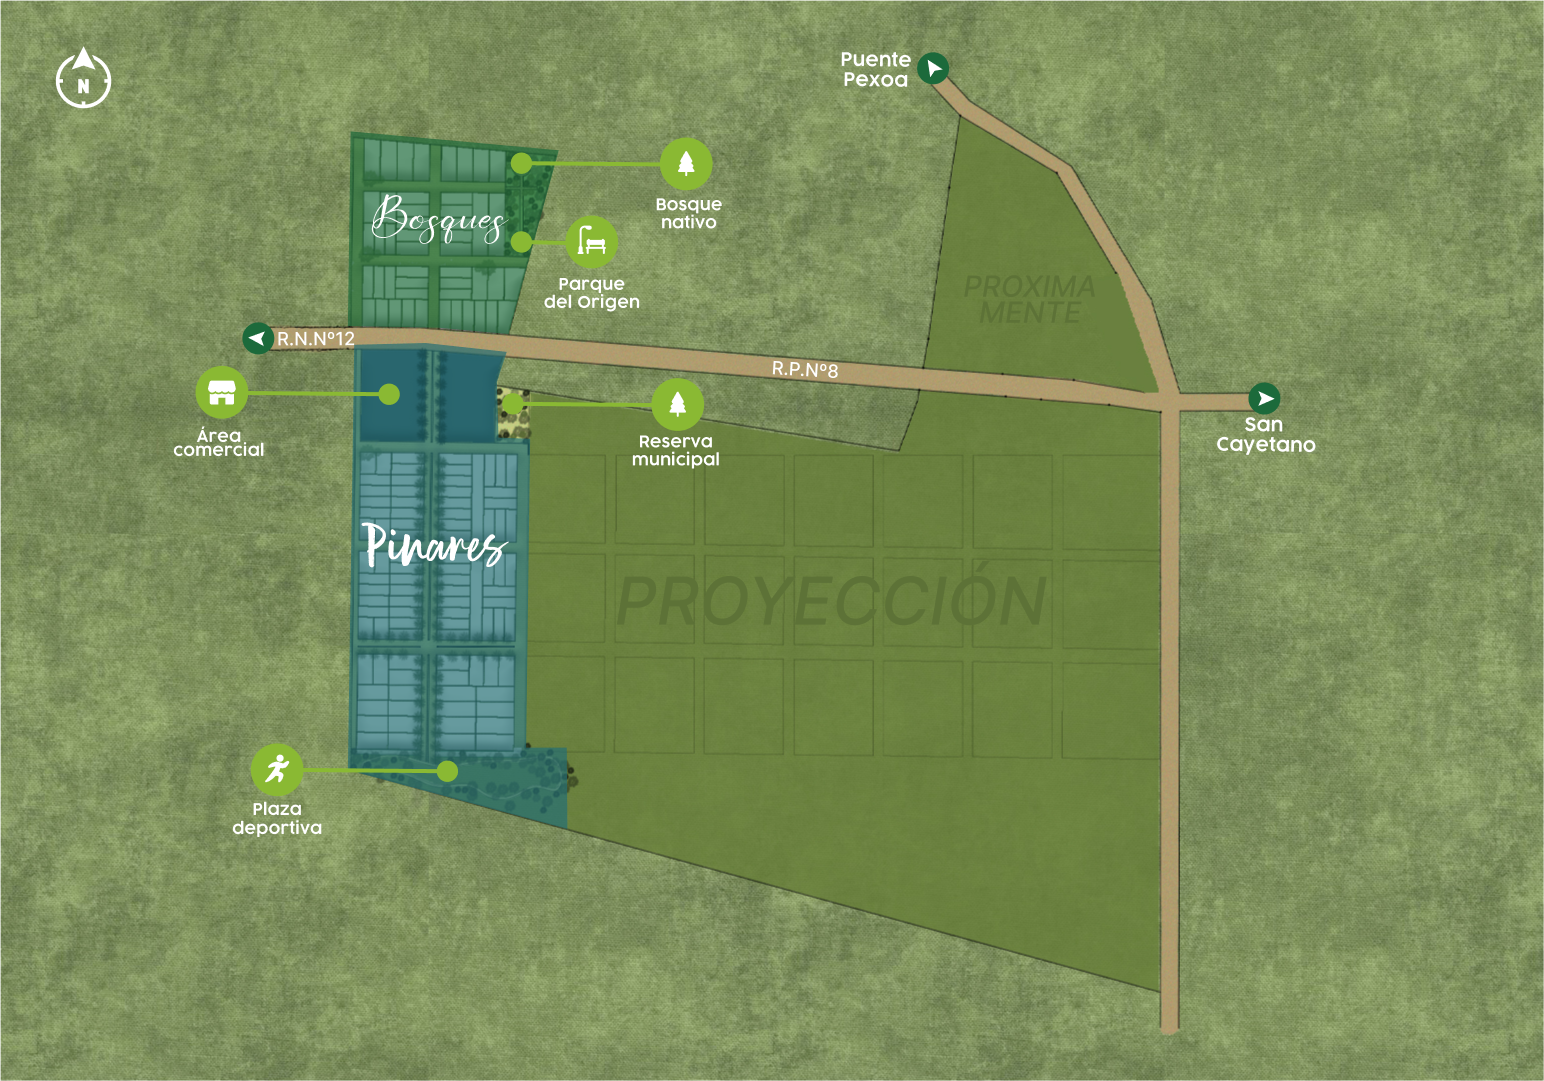
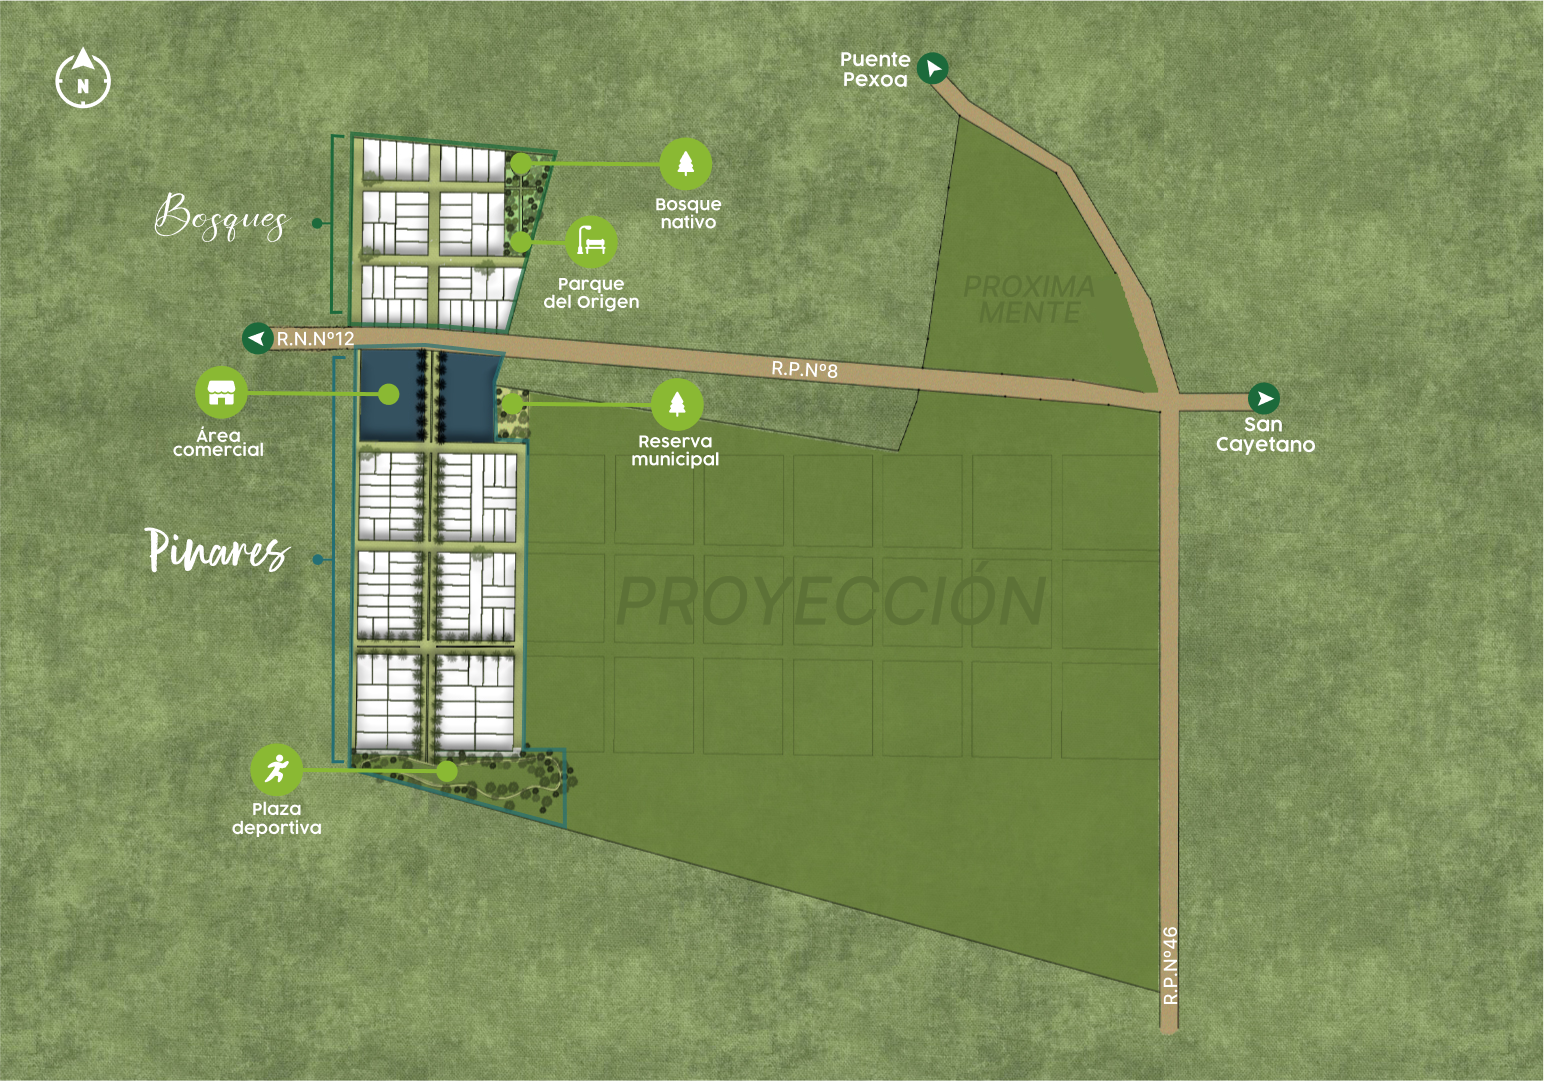
mapas

diff --git a/src/components/mapas/doneulogiocompleto.js b/src/components/mapas/doneulogiocompleto.js
@@ -20,6 +20,7 @@ const Arg = () => {
   const [open, setOpen] = useState(false);
   const [lotes, setLotes] = useState();
   const [seleccion, setSeleccion] = useState();
+  const [posicion0, setPosicion0] = useState(true);
   const [imagenDeFondoActivada, setImagenDeFondoActivada] = useState(true);
   const [selectedImage, setSelectedImage] = useState(Gps); // Estado para la imagen seleccionada
 
@@ -48,9 +49,14 @@ const Arg = () => {
   const handleImageChange = (e) => {
     setSelectedImage(e.target.value); // Actualiza la imagen seleccionada
   };
-  const handleMouseEnter = (e) => {
-    e.target.style.fillOpacity = 1;
-};
+  const cambiarsvg = (e) => {
+    if(e===1){
+      setPosicion0(false)
+     // setTransform(0, 0, 2)
+    }else{
+      setPosicion0(false)
+    }
+  };
 
 const handleMouseLeave = (e) => {
     e.target.style.fillOpacity = 0.00001;
@@ -135,16 +141,67 @@ const handleMouseLeave = (e) => {
       }}
     />
   )}  {  selectedImage && <>
-<div style={{ position: 'relative', zIndex: 1, width: '150%', height: '150%' }}>                    
-      <svg xmlns="http://www.w3.org/2000/svg" width="250mm" height="250mm" viewBox="-265 830 9874 9874"  baseProfile="tiny" version="1.2">
-                          <defs />
- <g transform="scale(1.06,1.05)" stroke-width="1" fill-rule="evenodd" stroke-linecap="square" fill="none" stroke-linejoin="bevel" stroke="black">
-  <g transform="scale(1.06,1.05)" stroke-width="1"  font-family="MS Shell Dlg 2" stroke-opacity="1" stroke-linecap="square" font-style="normal" font-size="108.333" fill="none" stroke-linejoin="bevel" font-weight="400" stroke="#000000"/>
-  <g transform="scale(1.06,1.05)" stroke-width="1"  font-family="MS Shell Dlg 2" stroke-opacity="1" stroke-linecap="square" font-style="normal" font-size="108.333" fill="none" stroke-linejoin="bevel" font-weight="400" stroke="#000000"/>
-  <g transform="scale(1.06,1.05)" stroke-width="1"  font-family="MS Shell Dlg 2" stroke-opacity="1" stroke-linecap="square" font-style="normal" font-size="108.333" fill="none" stroke-linejoin="bevel" font-weight="400" stroke="#000000"/>
-  <g transform="scale(1.06,1.05)" stroke-width="1"  font-family="MS Shell Dlg 2" stroke-opacity="1" stroke-linecap="square" font-style="normal" font-size="108.333" fill="none" stroke-linejoin="bevel" font-weight="400" stroke="#000000"/>
-  <g fill-opacity="1"  font-family="MS Shell Dlg 2" font-style="normal" font-size="108.333" fill="#ffffff" font-weight="400" stroke="none">
+ 
 
+{posicion0 ? <div>
+  <div style={{ position: 'relative', zIndex: 1, width: '145%', height: '120%' }}>   
+  <svg viewBox="1200 640 3507 2480" version="1.2" width="250mm"  height="250mm"  xmlns="http://www.w3.org/2000/svg" >
+ <defs/>
+ <g stroke="black" stroke-width="1" fill-rule="evenodd" stroke-linejoin="bevel" stroke-linecap="square" fill="none">
+  <g font-style="normal"  transform="scale(0.7,0.7)"  stroke="#000000" stroke-width="1" stroke-linejoin="bevel" fill='none' font-size="32.5" stroke-linecap="square" stroke-opacity="1" font-family="MS Shell Dlg 2" font-weight="400" />
+  <g font-style="normal"  transform="scale(0.7,0.7)"  stroke="#000000" stroke-width="1" stroke-linejoin="bevel" fill='none' font-size="32.5" stroke-linecap="square" stroke-opacity="1" font-family="MS Shell Dlg 2" font-weight="400" />
+  <g font-style="normal"  transform="scale(0.7,0.7)"  stroke="#000000" stroke-width="1" stroke-linejoin="bevel" fill='none' font-size="32.5" stroke-linecap="square" stroke-opacity="1" font-family="MS Shell Dlg 2" font-weight="400" />
+  <g font-style="normal"  transform="scale(0.7,0.7)"  stroke="#000000" stroke-width="1" stroke-linejoin="bevel" fill='none' font-size="32.5" stroke-linecap="square" stroke-opacity="1" font-family="MS Shell Dlg 2" font-weight="400" />
+  <g font-style="normal" stroke="none" fill-opacity="1" font-size="32.5" font-family="MS Shell Dlg 2" font-weight="400" fill="#ffffff">
+   <path vector-effect="none" d="M-2,-2 L3510,-2 L3510,2483 L-2,2483 L-2,-2" fill="none" fill-rule="evenodd"/>
+  </g>
+  <g font-style="normal"  transform="scale(0.7,0.7)"  stroke="#000000" stroke-width="1" stroke-linejoin="bevel" fill='none' font-size="32.5" stroke-linecap="square" stroke-opacity="1" font-family="MS Shell Dlg 2" font-weight="400" />
+  <g font-style="normal"  transform="scale(0.7,0.7)"  stroke="#000000" stroke-width="1" stroke-linejoin="bevel" fill='none' font-size="32.5" stroke-linecap="square" stroke-opacity="1" font-family="MS Shell Dlg 2" font-weight="400" />
+  <g font-style="normal"  transform="scale(0.7,0.7)"  stroke="#000000" stroke-width="1" stroke-linejoin="bevel" fill='none' font-size="32.5" stroke-linecap="square" stroke-opacity="1" font-family="MS Shell Dlg 2" font-weight="400" />
+  <g font-style="normal"  transform="scale(0.7,0.7)"  stroke="#000000" stroke-width="1" stroke-linejoin="bevel" fill='none' font-size="32.5" stroke-linecap="square" stroke-opacity="1" font-family="MS Shell Dlg 2" font-weight="400" />
+  <g font-style="normal"  transform="scale(0.7,0.7)"  stroke="#000000" stroke-width="1" stroke-linejoin="bevel" fill='none' font-size="32.5" stroke-linecap="square" stroke-opacity="1" font-family="MS Shell Dlg 2" font-weight="400" />
+  <g font-style="normal"  transform="scale(0.7,0.7)"  stroke="#000000" stroke-width="1" stroke-linejoin="bevel" fill='none' font-size="32.5" stroke-linecap="square" stroke-opacity="1" font-family="MS Shell Dlg 2" font-weight="400" />
+  <g font-style="normal" stroke="none" fill-opacity="1" font-size="32.5" font-family="MS Shell Dlg 2" font-weight="400" fill="#ffffff">
+   <path vector-effect="none" fillOpacity={0.0001} fill='none'  d="M0,0 L297,0 L297,210 L0,210 L0,0" fill-rule="evenodd"/>
+  </g>
+  <g font-style="normal"  transform="scale(0.7,0.7)"  stroke="#000000" stroke-width="1" stroke-linejoin="bevel" fill='none' font-size="32.5" stroke-linecap="square" stroke-opacity="1" font-family="MS Shell Dlg 2" font-weight="400" />
+  <g font-style="normal"  transform="scale(0.7,0.7)"  stroke="#000000" stroke-width="1" stroke-linejoin="bevel" fill='none' font-size="32.5" stroke-linecap="square" stroke-opacity="1" font-family="MS Shell Dlg 2" font-weight="400" />
+  <g font-style="normal" stroke="none" fill-opacity="0" font-size="32.5" font-family="MS Shell Dlg 2" font-weight="400" fill="#000000">
+  
+  </g>
+  <g font-style="normal"  transform="scale(0.7,0.7)"  stroke="#000000" stroke-width="1" stroke-linejoin="bevel" fill='none' font-size="32.5" stroke-linecap="square" stroke-opacity="1" font-family="MS Shell Dlg 2" font-weight="400" />
+  <g font-style="normal" stroke="#232323" stroke-width="3.07087" fill-opacity="0.652995" stroke-linejoin="bevel" font-size="32.5" stroke-linecap="square" stroke-opacity="0.652995" font-family="MS Shell Dlg 2" font-weight="400" fill="#1c6a3b">
+   <path vector-effect="none"  transform="scale(1.1,0.97)"onClick={ () => cambiarsvg(1)}   d="M1037.69,899.526 L1222.96,904.069 L1248.21,904.574 L1413.29,919.214 L1526.75,485.432 L1042.61,443.909 L1037.69,899.526" fill-rule="evenodd"/>
+  </g>
+  <g font-style="normal"  transform="scale(0.7,0.7)"  stroke="#000000" stroke-width="1" stroke-linejoin="bevel" fill='none' font-size="32.5" stroke-linecap="square" stroke-opacity="1" font-family="MS Shell Dlg 2" font-weight="400" />
+  <g font-style="normal" stroke="#232323" stroke-width="3.07087" fill-opacity="0.484993" stroke-linejoin="bevel" font-size="32.5" stroke-linecap="square" stroke-opacity="0.484993" font-family="MS Shell Dlg 2" font-weight="400" fill="#246f74">
+   <path  transform="scale(1.1,0.97)" vector-effect="none" d="M1053.65,948.684 L1216.72,946.16 L1403,963.325 L1377.76,1023.4 L1379.78,1171.82 L1459.04,1172.33 L1449.7,1899.55 L1545.37,1899.04 L1548.4,2082.05 L1038,1943.85 L1053.65,948.684" fill-rule="evenodd"/>
+  </g>
+  <g font-style="normal"  transform="scale(0.7,0.7)"  stroke="#000000" stroke-width="1" stroke-linejoin="bevel" fill='none' font-size="32.5" stroke-linecap="square" stroke-opacity="1" font-family="MS Shell Dlg 2" font-weight="400" />
+  <g font-style="normal"  transform="scale(0.7,0.7)"  stroke="#000000" stroke-width="1" stroke-linejoin="bevel" fill='none' font-size="32.5" stroke-linecap="square" stroke-opacity="1" font-family="MS Shell Dlg 2" font-weight="400" />
+  <g font-style="normal"  transform="scale(0.7,0.7)"  stroke="#000000" stroke-width="1" stroke-linejoin="bevel" fill='none' font-size="32.5" stroke-linecap="square" stroke-opacity="1" font-family="MS Shell Dlg 2" font-weight="400" />
+  <g font-style="normal"  transform="scale(0.7,0.7)"  stroke="#000000" stroke-width="1" stroke-linejoin="bevel" fill='none' font-size="32.5" stroke-linecap="square" stroke-opacity="1" font-family="MS Shell Dlg 2" font-weight="400" />
+  <g font-style="normal"  transform="scale(0.7,0.7)"  stroke="#000000" stroke-width="1" stroke-linejoin="bevel" fill='none' font-size="32.5" stroke-linecap="square" stroke-opacity="1" font-family="MS Shell Dlg 2" font-weight="400" />
+  <g font-style="normal"  transform="scale(0.7,0.7)"  stroke="#000000" stroke-width="1" stroke-linejoin="bevel" fill='none' font-size="32.5" stroke-linecap="square" stroke-opacity="1" font-family="MS Shell Dlg 2" font-weight="400" />
+  <g font-style="normal"  transform="scale(0.7,0.7)"  stroke="#000000" stroke-width="1" stroke-linejoin="bevel" fill='none' font-size="32.5" stroke-linecap="square" stroke-opacity="1" font-family="MS Shell Dlg 2" font-weight="400" />
+  <g font-style="normal"  transform="scale(0.7,0.7)"  stroke="#000000" stroke-width="1" stroke-linejoin="bevel" fill='none' font-size="32.5" stroke-linecap="square" stroke-opacity="1" font-family="MS Shell Dlg 2" font-weight="400" />
+  <g font-style="normal"  transform="scale(0.7,0.7)"  stroke="#000000" stroke-width="1" stroke-linejoin="bevel" fill='none' font-size="32.5" stroke-linecap="square" stroke-opacity="1" font-family="MS Shell Dlg 2" font-weight="400" />
+  <g font-style="normal"  transform="scale(0.7,0.7)"  stroke="#000000" stroke-width="1" stroke-linejoin="bevel" fill='none' font-size="32.5" stroke-linecap="square" stroke-opacity="1" font-family="MS Shell Dlg 2" font-weight="400" />
+ </g>
+ 
+</svg>
+</div>
+</div>:<div>
+<div style={{ position: 'relative', zIndex: 1, width: '140%', height: '150%' }}>     
+
+      <svg xmlns="http://www.w3.org/2000/svg" width="250mm" height="250mm" viewBox="1677 839 9874 9874"  baseProfile="tiny" version="1.2">
+                          <defs />
+ <g transform="scale(1.052,1.052)" stroke-width="1" fill-rule="evenodd" stroke-linecap="square" fill="none" stroke-linejoin="bevel" stroke="black">
+  <g transform="scale(1.052,1.052)" stroke-width="1"  font-family="MS Shell Dlg 2" stroke-opacity="1" stroke-linecap="square" font-style="normal" font-size="108.333" fill="none" stroke-linejoin="bevel" font-weight="400" stroke="#000000"/>
+  <g transform="scale(1.052,1.052)" stroke-width="1"  font-family="MS Shell Dlg 2" stroke-opacity="1" stroke-linecap="square" font-style="normal" font-size="108.333" fill="none" stroke-linejoin="bevel" font-weight="400" stroke="#000000"/>
+  <g transform="scale(1.052,1.052)" stroke-width="1"  font-family="MS Shell Dlg 2" stroke-opacity="1" stroke-linecap="square" font-style="normal" font-size="108.333" fill="none" stroke-linejoin="bevel" font-weight="400" stroke="#000000"/>
+  <g transform="scale(1.052,1.052)" stroke-width="1"  font-family="MS Shell Dlg 2" stroke-opacity="1" stroke-linecap="square" font-style="normal" font-size="108.333" fill="none" stroke-linejoin="bevel" font-weight="400" stroke="#000000"/>
+  <g fill-opacity="1"  font-family="MS Shell Dlg 2" font-style="normal" font-size="108.333" fill="#ffffff" font-weight="400" stroke="none">
         {[0].map((tooltipValue) => {
           const objetoEncontrado = lotes.find(item => item.mapa1 == tooltipValue);
 
@@ -157,11 +214,11 @@ const handleMouseLeave = (e) => {
 
          
         
-  <g transform="scale(1.06,1.05)" stroke-width="1"  font-family="MS Shell Dlg 2" stroke-opacity="1" stroke-linecap="square" font-style="normal" font-size="108.333" fill="none" stroke-linejoin="bevel" font-weight="400" stroke="#000000"/>
-  <g transform="scale(1.06,1.05)" stroke-width="1"  font-family="MS Shell Dlg 2" stroke-opacity="1" stroke-linecap="square" font-style="normal" font-size="108.333" fill="none" stroke-linejoin="bevel" font-weight="400" stroke="#000000"/>
-  <g transform="scale(1.06,1.05)" stroke-width="1"  font-family="MS Shell Dlg 2" stroke-opacity="1" stroke-linecap="square" font-style="normal" font-size="108.333" fill="none" stroke-linejoin="bevel" font-weight="400" stroke="#000000"/>
-  <g transform="scale(1.06,1.05)" stroke-width="1"  font-family="MS Shell Dlg 2" stroke-opacity="1" stroke-linecap="square" font-style="normal" font-size="108.333" fill="none" stroke-linejoin="bevel" font-weight="400" stroke="#000000"/>
-  <g transform="scale(1.06,1.05)" stroke-width="1"  font-family="MS Shell Dlg 2" stroke-opacity="1" stroke-linecap="square" font-style="normal" font-size="108.333" fill="none" stroke-linejoin="bevel" font-weight="400" stroke="#000000"/>
+  <g transform="scale(1.052,1.052)" stroke-width="1"  font-family="MS Shell Dlg 2" stroke-opacity="1" stroke-linecap="square" font-style="normal" font-size="108.333" fill="none" stroke-linejoin="bevel" font-weight="400" stroke="#000000"/>
+  <g transform="scale(1.052,1.052)" stroke-width="1"  font-family="MS Shell Dlg 2" stroke-opacity="1" stroke-linecap="square" font-style="normal" font-size="108.333" fill="none" stroke-linejoin="bevel" font-weight="400" stroke="#000000"/>
+  <g transform="scale(1.052,1.052)" stroke-width="1"  font-family="MS Shell Dlg 2" stroke-opacity="1" stroke-linecap="square" font-style="normal" font-size="108.333" fill="none" stroke-linejoin="bevel" font-weight="400" stroke="#000000"/>
+  <g transform="scale(1.052,1.052)" stroke-width="1"  font-family="MS Shell Dlg 2" stroke-opacity="1" stroke-linecap="square" font-style="normal" font-size="108.333" fill="none" stroke-linejoin="bevel" font-weight="400" stroke="#000000"/>
+  <g transform="scale(1.052,1.052)" stroke-width="1"  font-family="MS Shell Dlg 2" stroke-opacity="1" stroke-linecap="square" font-style="normal" font-size="108.333" fill="none" stroke-linejoin="bevel" font-weight="400" stroke="#000000"/>
   <g fill-opacity="1"  font-family="MS Shell Dlg 2" font-style="normal" font-size="108.333" fill="#ffffff" font-weight="400" stroke="none">
 
         {[1].map((tooltipValue) => {
@@ -179,12 +236,12 @@ const handleMouseLeave = (e) => {
             </Tooltip>
           ))}
         
-  <g transform="scale(1.06,1.05)" stroke-width="1"  font-family="MS Shell Dlg 2" stroke-opacity="1" stroke-linecap="square" font-style="normal" font-size="108.333" fill="none" stroke-linejoin="bevel" font-weight="400" stroke="#000000"/>
+  <g transform="scale(1.052,1.052)" stroke-width="1"  font-family="MS Shell Dlg 2" stroke-opacity="1" stroke-linecap="square" font-style="normal" font-size="108.333" fill="none" stroke-linejoin="bevel" font-weight="400" stroke="#000000"/>
   <g fill-opacity="0"  font-family="MS Shell Dlg 2" font-style="normal" font-size="108.333" fill="#000000" font-weight="400" stroke="none">
    <rect x="0" width="7988" y="0" height="7977"/>
   </g>
-  <g transform="scale(1.06,1.05)" stroke-width="1"  font-family="MS Shell Dlg 2" stroke-opacity="1" stroke-linecap="square" font-style="normal" font-size="108.333" fill="none" stroke-linejoin="bevel" font-weight="400" stroke="#000000"/>
-  <g transform="scale(1.06,1.05)" stroke-width="10.2362" fill-opacity="0.127001"  font-family="MS Shell Dlg 2" stroke-opacity="0.127001" stroke-linecap="square" font-style="normal" font-size="108.333" fill="#e4e7d6" stroke-linejoin="bevel" font-weight="400" stroke="#232323">
+  <g transform="scale(1.052,1.052)" stroke-width="1"  font-family="MS Shell Dlg 2" stroke-opacity="1" stroke-linecap="square" font-style="normal" font-size="108.333" fill="none" stroke-linejoin="bevel" font-weight="400" stroke="#000000"/>
+  <g transform="scale(1.052,1.052)" stroke-width="10.2362" fill-opacity="0.127001"  font-family="MS Shell Dlg 2" stroke-opacity="0.127001" stroke-linecap="square" font-style="normal" font-size="108.333" fill="#e4e7d6" stroke-linejoin="bevel" font-weight="400" stroke="#232323">
 
         {[2].map((tooltipValue) => {
           const objetoEncontrado = lotes.find(item => item.mapa1 == tooltipValue);
@@ -1510,19 +1567,21 @@ const handleMouseLeave = (e) => {
             </Tooltip>
           ))}
         
-  <g transform="scale(1.06,1.05)" stroke-width="1"  font-family="MS Shell Dlg 2" stroke-opacity="1" stroke-linecap="square" font-style="normal" font-size="108.333" fill="none" stroke-linejoin="bevel" font-weight="400" stroke="#000000"/>
-  <g transform="scale(1.06,1.05)" stroke-width="1"  font-family="MS Shell Dlg 2" stroke-opacity="1" stroke-linecap="square" font-style="normal" font-size="108.333" fill="none" stroke-linejoin="bevel" font-weight="400" stroke="#000000"/>
-  <g transform="scale(1.06,1.05)" stroke-width="1"  font-family="MS Shell Dlg 2" stroke-opacity="1" stroke-linecap="square" font-style="normal" font-size="108.333" fill="none" stroke-linejoin="bevel" font-weight="400" stroke="#000000"/>
-  <g transform="scale(1.06,1.05)" stroke-width="1"  font-family="MS Shell Dlg 2" stroke-opacity="1" stroke-linecap="square" font-style="normal" font-size="108.333" fill="none" stroke-linejoin="bevel" font-weight="400" stroke="#000000"/>
-  <g transform="scale(1.06,1.05)" stroke-width="1"  font-family="MS Shell Dlg 2" stroke-opacity="1" stroke-linecap="square" font-style="normal" font-size="108.333" fill="none" stroke-linejoin="bevel" font-weight="400" stroke="#000000"/>
-  <g transform="scale(1.06,1.05)" stroke-width="1"  font-family="MS Shell Dlg 2" stroke-opacity="1" stroke-linecap="square" font-style="normal" font-size="108.333" fill="none" stroke-linejoin="bevel" font-weight="400" stroke="#000000"/>
-  <g transform="scale(1.06,1.05)" stroke-width="1"  font-family="MS Shell Dlg 2" stroke-opacity="1" stroke-linecap="square" font-style="normal" font-size="108.333" fill="none" stroke-linejoin="bevel" font-weight="400" stroke="#000000"/>
-  <g transform="scale(1.06,1.05)" stroke-width="1"  font-family="MS Shell Dlg 2" stroke-opacity="1" stroke-linecap="square" font-style="normal" font-size="108.333" fill="none" stroke-linejoin="bevel" font-weight="400" stroke="#000000"/>
-  <g transform="scale(1.06,1.05)" stroke-width="1"  font-family="MS Shell Dlg 2" stroke-opacity="1" stroke-linecap="square" font-style="normal" font-size="108.333" fill="none" stroke-linejoin="bevel" font-weight="400" stroke="#000000"/>
+  <g transform="scale(1.052,1.052)" stroke-width="1"  font-family="MS Shell Dlg 2" stroke-opacity="1" stroke-linecap="square" font-style="normal" font-size="108.333" fill="none" stroke-linejoin="bevel" font-weight="400" stroke="#000000"/>
+  <g transform="scale(1.052,1.052)" stroke-width="1"  font-family="MS Shell Dlg 2" stroke-opacity="1" stroke-linecap="square" font-style="normal" font-size="108.333" fill="none" stroke-linejoin="bevel" font-weight="400" stroke="#000000"/>
+  <g transform="scale(1.052,1.052)" stroke-width="1"  font-family="MS Shell Dlg 2" stroke-opacity="1" stroke-linecap="square" font-style="normal" font-size="108.333" fill="none" stroke-linejoin="bevel" font-weight="400" stroke="#000000"/>
+  <g transform="scale(1.052,1.052)" stroke-width="1"  font-family="MS Shell Dlg 2" stroke-opacity="1" stroke-linecap="square" font-style="normal" font-size="108.333" fill="none" stroke-linejoin="bevel" font-weight="400" stroke="#000000"/>
+  <g transform="scale(1.052,1.052)" stroke-width="1"  font-family="MS Shell Dlg 2" stroke-opacity="1" stroke-linecap="square" font-style="normal" font-size="108.333" fill="none" stroke-linejoin="bevel" font-weight="400" stroke="#000000"/>
+  <g transform="scale(1.052,1.052)" stroke-width="1"  font-family="MS Shell Dlg 2" stroke-opacity="1" stroke-linecap="square" font-style="normal" font-size="108.333" fill="none" stroke-linejoin="bevel" font-weight="400" stroke="#000000"/>
+  <g transform="scale(1.052,1.052)" stroke-width="1"  font-family="MS Shell Dlg 2" stroke-opacity="1" stroke-linecap="square" font-style="normal" font-size="108.333" fill="none" stroke-linejoin="bevel" font-weight="400" stroke="#000000"/>
+  <g transform="scale(1.052,1.052)" stroke-width="1"  font-family="MS Shell Dlg 2" stroke-opacity="1" stroke-linecap="square" font-style="normal" font-size="108.333" fill="none" stroke-linejoin="bevel" font-weight="400" stroke="#000000"/>
+  <g transform="scale(1.052,1.052)" stroke-width="1"  font-family="MS Shell Dlg 2" stroke-opacity="1" stroke-linecap="square" font-style="normal" font-size="108.333" fill="none" stroke-linejoin="bevel" font-weight="400" stroke="#000000"/>
  </g>
 
 </svg>
-</div></>}
+</div>
+</div>  }
+</>}
 </div>
                   </>
                 ) : null}
